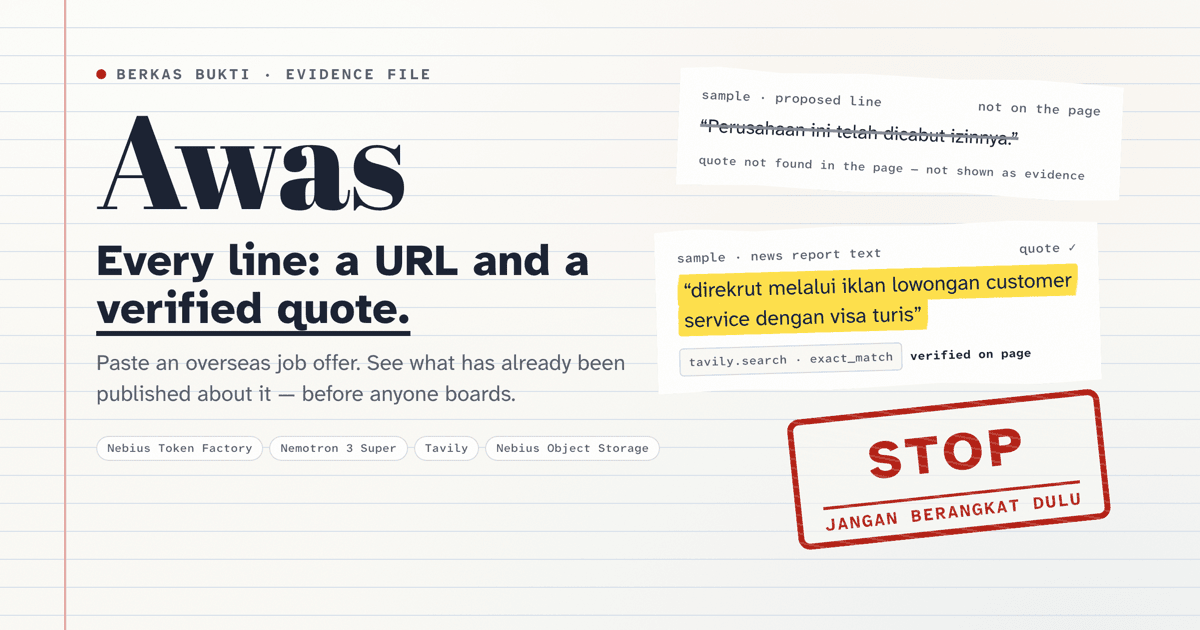
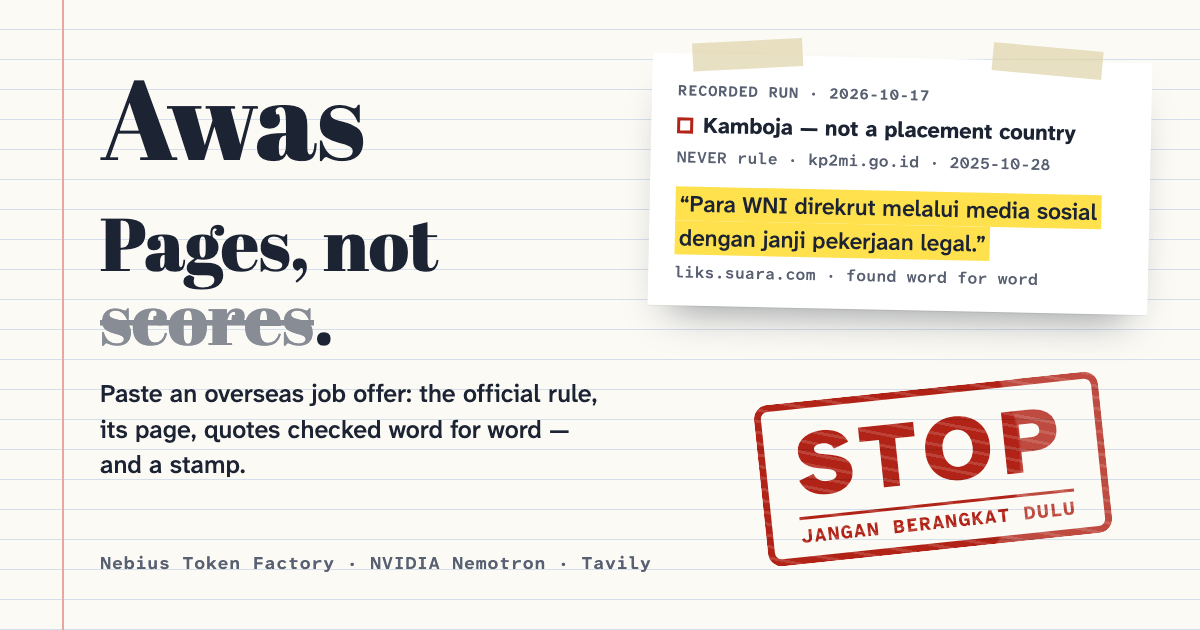
Link card from the recorded run: the rule and its page, a quote found word for word, the stamp — the old card still promised published reports about the company

diff --git a/public/landing/index.html b/public/landing/index.html
@@ -14,14 +14,14 @@
 <meta property="og:title" content="Awas — pages, not scores">
 <meta property="og:description" content="Official rules, quotes checked word for word in code, STOP or VERIFY FIRST. 0 of 10 licensed vacancies stopped.">
 <meta property="og:url" content="https://awas-cek.vercel.app/about">
-<meta property="og:image" content="https://awas-cek.vercel.app/og-image.png?v=4dc3ec66b3">
+<meta property="og:image" content="https://awas-cek.vercel.app/og-image.png?v=6790adc007">
 <meta property="og:image:width" content="1200">
 <meta property="og:image:height" content="630">
 <meta property="og:image:alt" content="Awas — an evidence file with a highlighted quote and a red STOP stamp">
 <meta name="twitter:card" content="summary_large_image">
 <meta name="twitter:title" content="Awas — pages, not scores">
 <meta name="twitter:description" content="Official rules, quotes checked word for word in code, STOP or VERIFY FIRST. 0 of 10 licensed vacancies stopped.">
-<meta name="twitter:image" content="https://awas-cek.vercel.app/og-image.png?v=4dc3ec66b3">
+<meta name="twitter:image" content="https://awas-cek.vercel.app/og-image.png?v=6790adc007">
 <link rel="preload" href="/fonts/abril-fatface-400.woff2" as="font" type="font/woff2" crossorigin>
 <link rel="preload" href="/fonts/atkinson-hyperlegible-next-wght.woff2" as="font" type="font/woff2" crossorigin>
 <script>if (matchMedia("(prefers-reduced-motion: no-preference)").matches) document.documentElement.classList.add("motion");</script>

diff --git a/src/app/layout.tsx b/src/app/layout.tsx
@@ -53,9 +53,9 @@ export const metadata: Metadata = {
     siteName: "Awas",
     type: "website",
     // Bump ?v= whenever og-image.png changes: platforms cache cards by URL.
-    images: [{ url: "/og-image.png?v=2", width: 1200, height: 630, alt: "Awas: every line is a URL and a verified quote" }],
+    images: [{ url: "/og-image.png?v=3", width: 1200, height: 630, alt: "Awas — a recorded evidence file: the rule and its official page, a quote found word for word, a STOP stamp" }],
   },
-  twitter: { card: "summary_large_image", title: TITLE, description: OG_DESCRIPTION, images: ["/og-image.png?v=2"] },
+  twitter: { card: "summary_large_image", title: TITLE, description: OG_DESCRIPTION, images: ["/og-image.png?v=3"] },
 };
 
 export const viewport: Viewport = {

diff --git a/public/pitch/index.html b/public/pitch/index.html
@@ -23,7 +23,7 @@
 <link rel="canonical" href="https://awas-cek.vercel.app/pitch">
 <meta property="og:description" content="Official rules, quotes checked word for word in code, STOP or VERIFY FIRST. 0 of 10 licensed vacancies stopped.">
 <meta property="og:url" content="https://awas-cek.vercel.app/pitch">
-<meta property="og:image" content="https://awas-cek.vercel.app/og-image.png?v=4dc3ec66b3">
+<meta property="og:image" content="https://awas-cek.vercel.app/og-image.png?v=6790adc007">
 <meta property="og:image:width" content="1200">
 <meta property="og:image:height" content="630">
 <meta name="twitter:card" content="summary_large_image">
